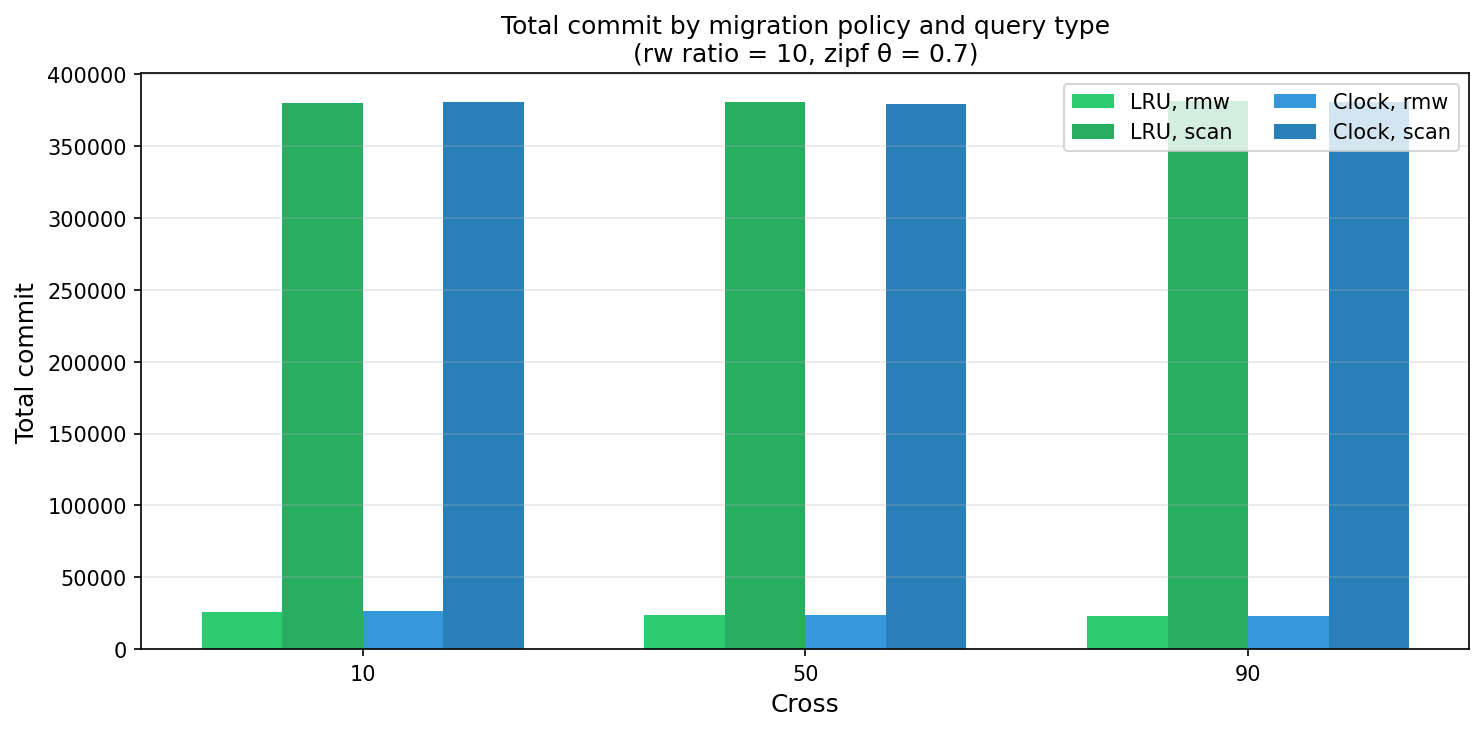
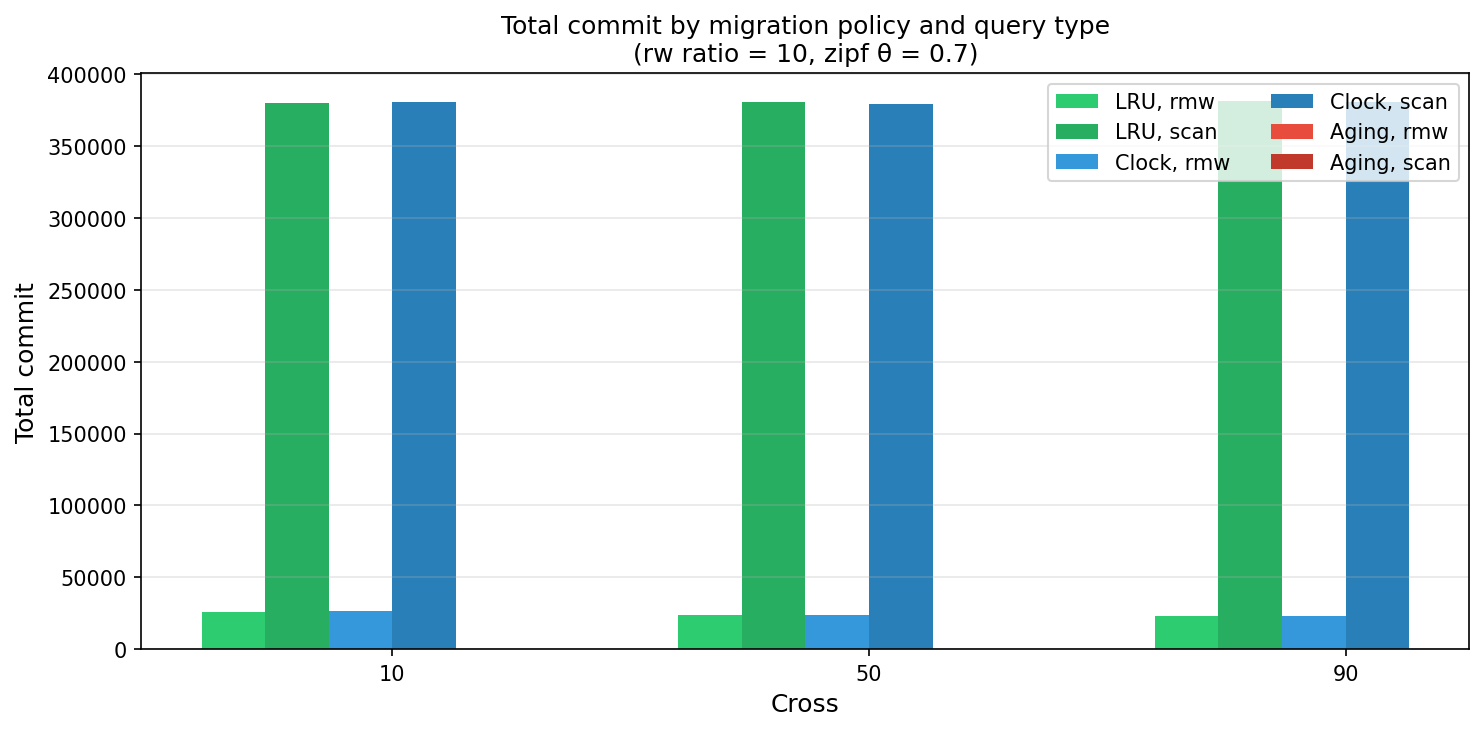
debugging

diff --git a/scripts/plot_ycsb_cache_hit_bars.py b/scripts/plot_ycsb_cache_hit_bars.py
@@ -1,5 +1,7 @@
 #!/usr/bin/env python3
 """
+Need to run parse_ycsb_migration_results.py first
+
 Bar graphs: cache hit rate, avg latency, or total commit (y) vs rw_ratio, zipf_theta, or cross_value (x).
 Each group has 4 bars: LRU-rmw, LRU-scan, Clock-rmw, Clock-scan.
 
@@ -26,12 +28,14 @@ BAR_ORDER = [
     ("LRU", "scan"),
     ("Clock", "rmw"),
     ("Clock", "scan"),
+    ("Aging", "rmw"),
+    ("Aging", "scan"),
 ]
 
 RW_RATIOS = [10, 50, 90]
 ZIPF_THETAS = [0.5, 0.7, 0.99]
 
-COLORS = ["#2ecc71", "#27ae60", "#3498db", "#2980b9"]
+COLORS = ["#2ecc71", "#27ae60", "#3498db", "#2980b9", "#e74c3c", "#c0392b"]
 
 # (csv_column, ylabel, ylim_low, ylim_high) — None for auto
 METRICS = [
@@ -98,6 +102,8 @@ def make_legend(ax):
         Patch(facecolor=COLORS[1], label="LRU, scan"),
         Patch(facecolor=COLORS[2], label="Clock, rmw"),
         Patch(facecolor=COLORS[3], label="Clock, scan"),
+        Patch(facecolor=COLORS[4], label="Aging, rmw"),
+        Patch(facecolor=COLORS[5], label="Aging, scan"),
     ]
     ax.legend(handles=legend_elements, loc="upper right", ncol=2)
 
@@ -137,10 +143,10 @@ def _plot_grouped_bars(data, groups, group_labels, xlabel, metric_key, ylabel, t
     plt.title(title)
     plt.tight_layout()
     out = RESULTS_DIR / output_stem
-    plt.savefig(out.with_suffix(".pdf"), bbox_inches="tight")
+    #plt.savefig(out.with_suffix(".pdf"), bbox_inches="tight")
     plt.savefig(out.with_suffix(".png"), bbox_inches="tight", dpi=150)
     plt.close()
-    print(f"Saved {out}.pdf and .png")
+    print(f"Saved {out}.png")
 
 
 def plot_by_rw_ratio(metrics_to_plot):
